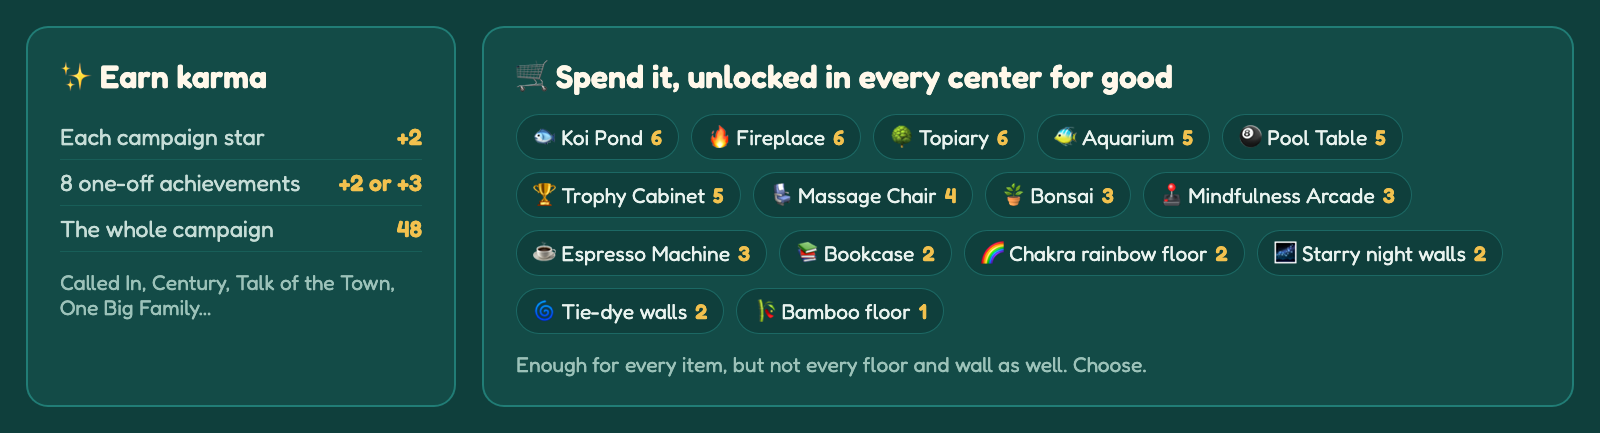
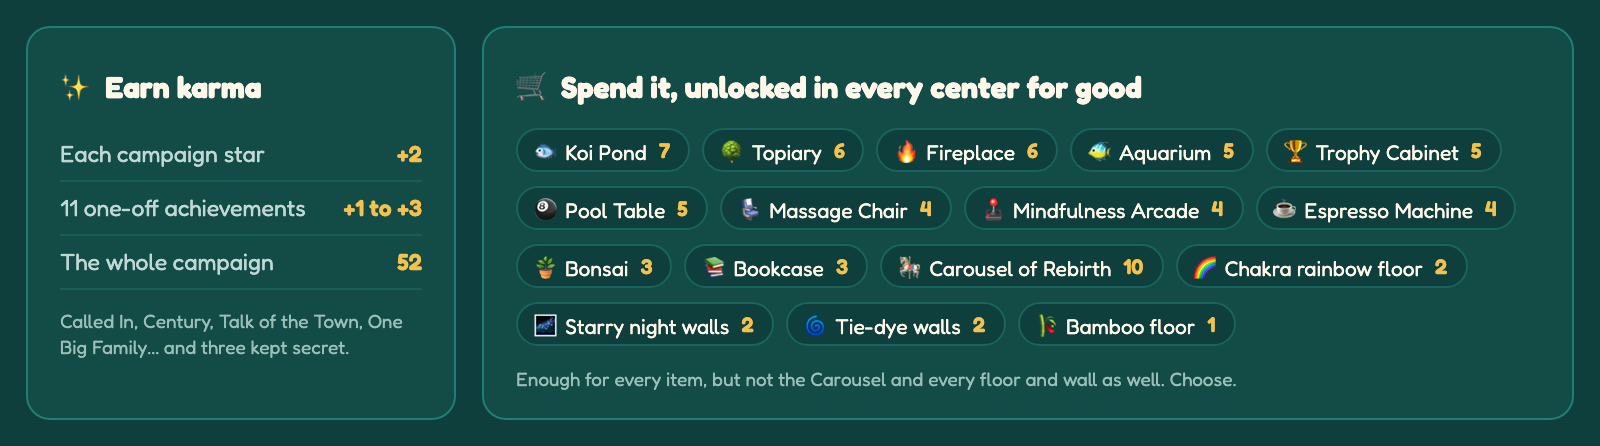
docs: draw the readme's numbers, karma and progress from the game's data

diff --git a/docs/dev/development.md b/docs/dev/development.md
@@ -99,10 +99,11 @@ Before each commit, a second Husky hook runs ESLint and Prettier over the staged
 | `electron/backup.ts`  | Desktop app: a copy of every save in files, put back if the page's storage loses them                                                                           |
 | `electron/updates.ts` | Desktop app: updates itself from the newest GitHub release ([dev/releasing.md](releasing.md#updates))                                                           |
 | `tests/`              | One folder per suite: `unit/`, `e2e/`, `desktop/`, `visual/`, `perf/`, `bench/`, and `balance/` for the playtest bot                                            |
-| `scripts/`            | The scripts behind `yarn brand`, `yarn icons`, `yarn buttons` and `yarn announcer`, the desktop build and the release notes                                     |
+| `scripts/`            | The scripts behind `yarn brand`, `yarn icons`, `yarn buttons`, `yarn readme` and `yarn announcer`, the desktop build and the release notes                      |
 | `brand/`              | The app icon and the logo, drawn in code. `yarn brand` renders them to `build/` (with a rounded-square `icon-mac.png` for macOS), `public/` and `src/ui/theme/` |
 | `src/ui/icons/`       | The game's icons, one SVG each. `yarn icons` builds the sprite sheet, the atlas and the ids from them; `/icons.html` shows them all                             |
 | `brand/buttons.mjs`   | The README's download buttons, in the game's style. `yarn buttons` renders them to `docs/assets/`                                                               |
+| `brand/readme.mjs`    | The README's pictures of the numbers, karma and progress. `yarn readme` draws them from the game's data to `docs/assets/`                                       |
 | `brand/announcer/`    | The announcer's clean recordings. `yarn announcer` (macOS) adds the speaker effect and writes them to `src/sounds/announcer/`                                   |
 
 Disciplines, modalities, conditions, courses and equipment are all defined in `src/core/data/`. Adding a discipline means an entry in `DISCIPLINES`, a room, its items and a staff role, its modalities and conditions, and a model per item in `render/models/items/`. The simulation, menus and Settings pick it up from the data.

diff --git a/README.md b/README.md
@@ -62,7 +62,7 @@ Five centers, each with its own building, guests, goals and quirks, and three st
 ### Karma: unlocks that stay unlocked
 
 <p align="center">
-  <img src="docs/assets/karma.png" alt="Earn karma: 2 for each campaign star and 1 to 3 for each achievement, 52 in all. Spend it on items such as a Koi Pond, a Fireplace and a Massage Chair, and on floors and walls" width="100%" />
+  <img src="docs/assets/karma.png" alt="Earn karma: 2 for each campaign star and 1 to 3 for each achievement, 52 in all. Spend it on items such as a Koi Pond, a Fireplace and a Massage Chair, the Carousel of Rebirth, and floors and walls" width="100%" />
 </p>
 
 Every star and achievement earns **✨ karma**. Spend it in the karma shop on items you can't get any other way, or to unlock one before its star comes round. Whatever you buy stays unlocked in every center and the sandbox.
